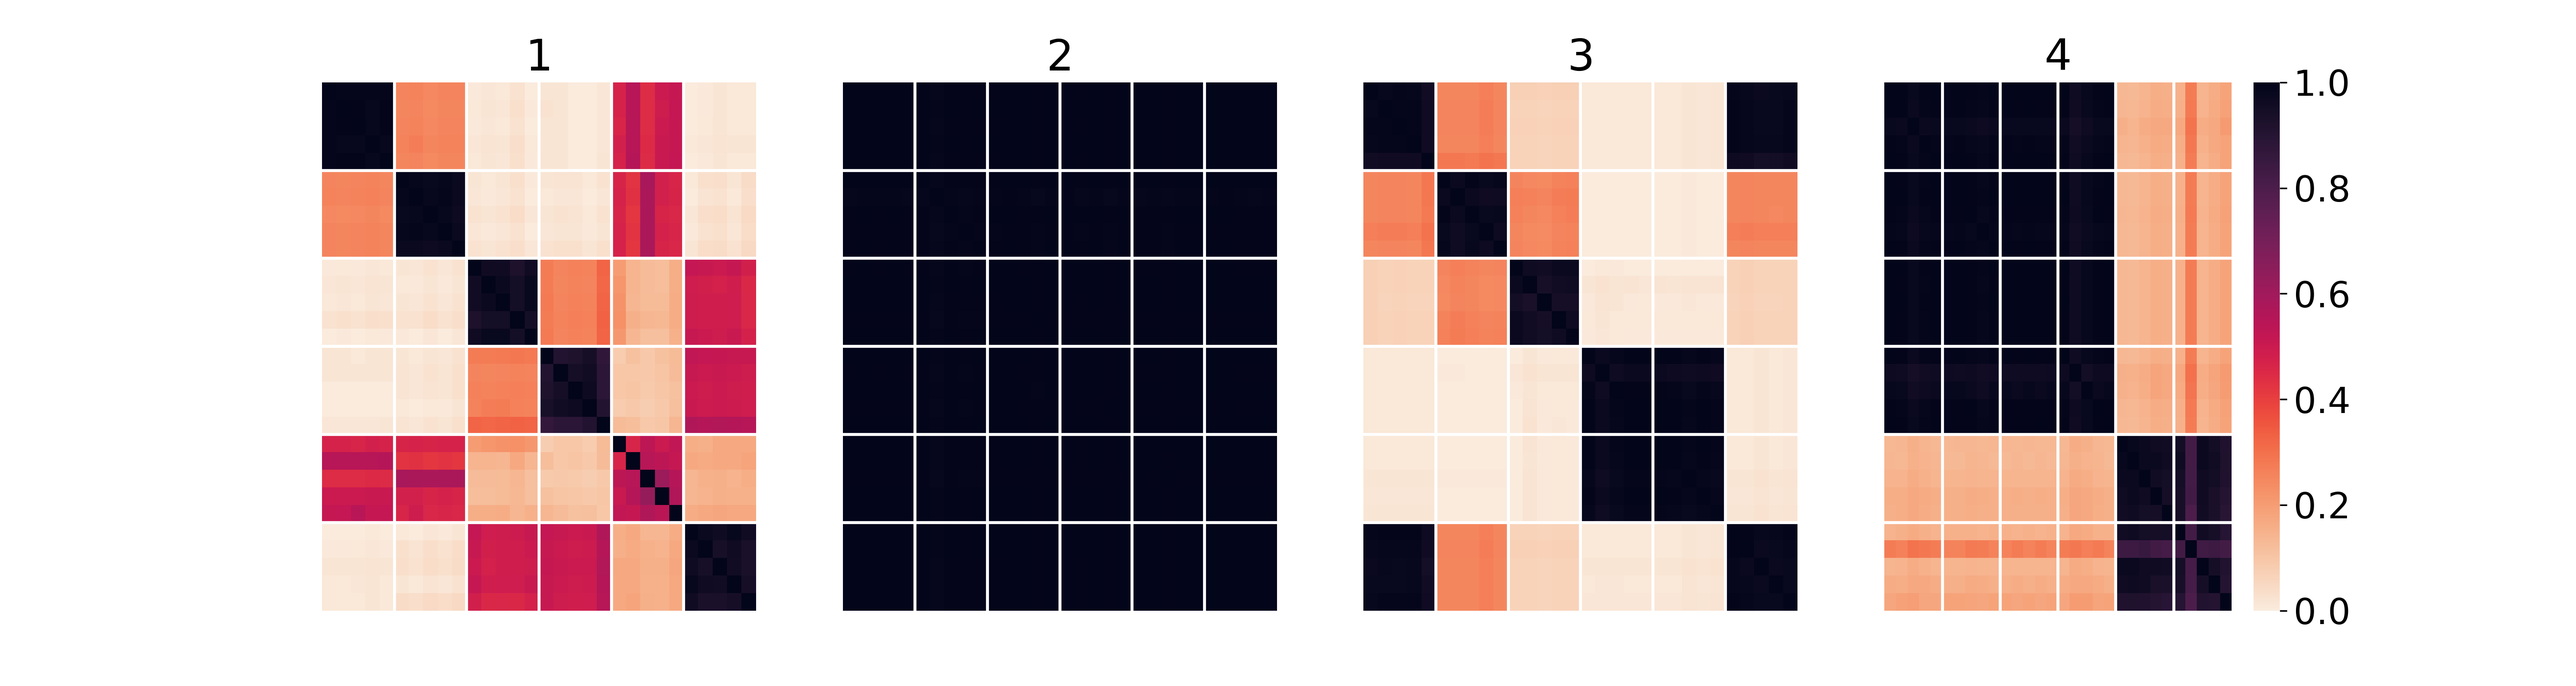
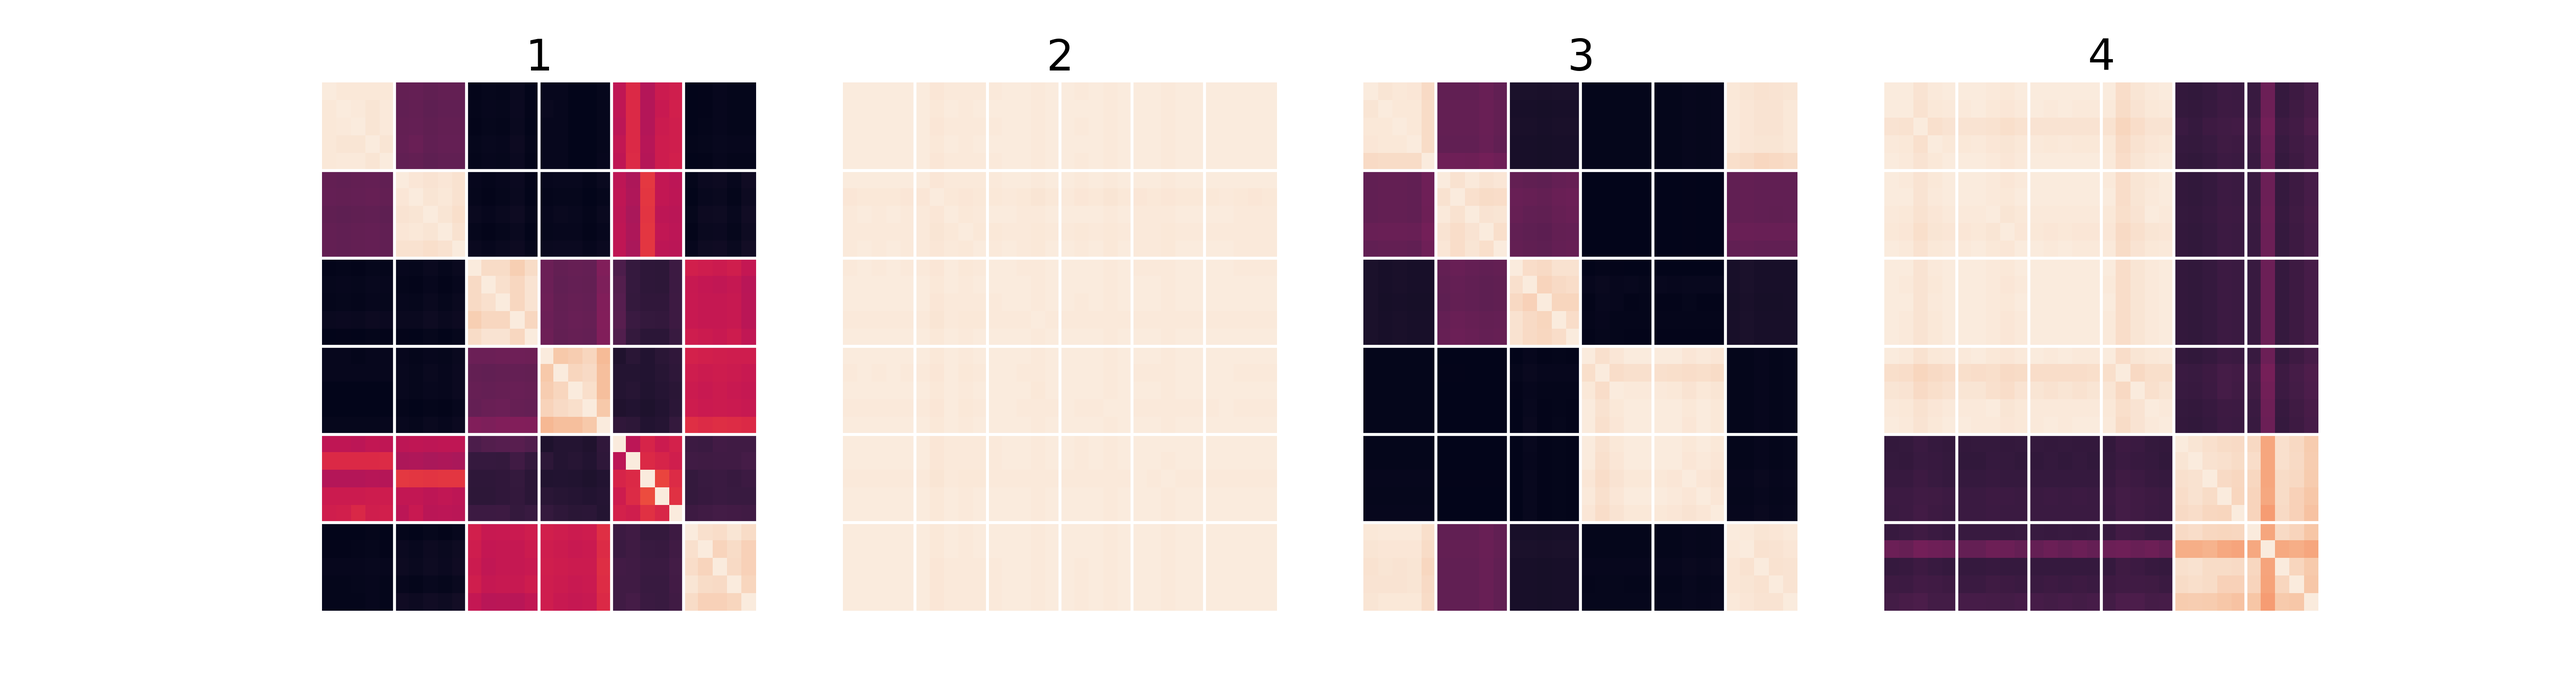
added graphs

diff --git a/ALIFE_2023/cavemanAnal.py b/ALIFE_2023/cavemanAnal.py
@@ -111,12 +111,13 @@ def performPlotTwo(age,ax,i,title):
     print(str((i+1)*100),"-",calculate_stabilities(stabilities))    
     # ax = sns.heatmap(stabilities, linewidth=0.5,vmin=0,vmax=1,cmap='rocket_r')
     if(title=="4"):
-        ax = sns.heatmap(stabilities,  linewidth=0,vmin=0,vmax=1,cmap='rocket_r', ax=ax)
+        ax = sns.heatmap(stabilities,  linewidth=0,vmin=0,vmax=1,cmap='rocket',cbar=False, ax=ax)
     else:
-        ax = sns.heatmap(stabilities,  linewidth=0,vmin=0,vmax=1,cmap='rocket_r',cbar=False, ax=ax)
+        ax = sns.heatmap(stabilities,  linewidth=0,vmin=0,vmax=1,cmap='rocket',cbar=False, ax=ax)
     ax.set_title(title)
     ax.axes.get_xaxis().set_visible(False)
-    ax.axes.get_yaxis().set_visible(False)  
+    ax.axes.get_yaxis().set_visible(False)
+
     ax.hlines([5, 10, 15,20,25], *ax.get_xlim(),color='white')
     ax.vlines([5, 10, 15,20,25], *ax.get_ylim(),color='white')
     return ax  
@@ -134,12 +135,12 @@ def performPlotTwoPD(age,ax,i,title):
     print(str((i+1)*100),"-",calculate_stabilities(stabilities))    
     # ax = sns.heatmap(stabilities, linewidth=0.5,vmin=0,vmax=1,cmap='rocket_r')
     if(title=="4"):
-        ax = sns.heatmap(stabilities,  linewidth=0,vmin=0,vmax=1,cmap='rocket_r', ax=ax)
+        ax = sns.heatmap(stabilities,  linewidth=0,vmin=0,vmax=1,cmap='rocket',cbar=False, ax=ax)
     else:
-        ax = sns.heatmap(stabilities,  linewidth=0,vmin=0,vmax=1,cmap='rocket_r',cbar=False, ax=ax)
+        ax = sns.heatmap(stabilities,  linewidth=0,vmin=0,vmax=1,cmap='rocket',cbar=False, ax=ax)
     ax.set_title(title)
     ax.axes.get_xaxis().set_visible(False)
-    ax.axes.get_yaxis().set_visible(False)  
+    ax.axes.get_yaxis().set_visible(False)
     ax.hlines([5, 10, 15,20,25], *ax.get_xlim(),color='white')
     ax.vlines([5, 10, 15,20,25], *ax.get_ylim(),color='white')
     return ax    
@@ -238,5 +239,6 @@ performPlotTwo(20,ax2,0,"2")
 performPlotTwoPD(15,ax3,1,"3")
 performPlotTwoPD(20,ax4,2,"4")
 fig.set_figwidth(18)
+
 plt.savefig('heatmapsOld.png', dpi=300)
 plt.show()
